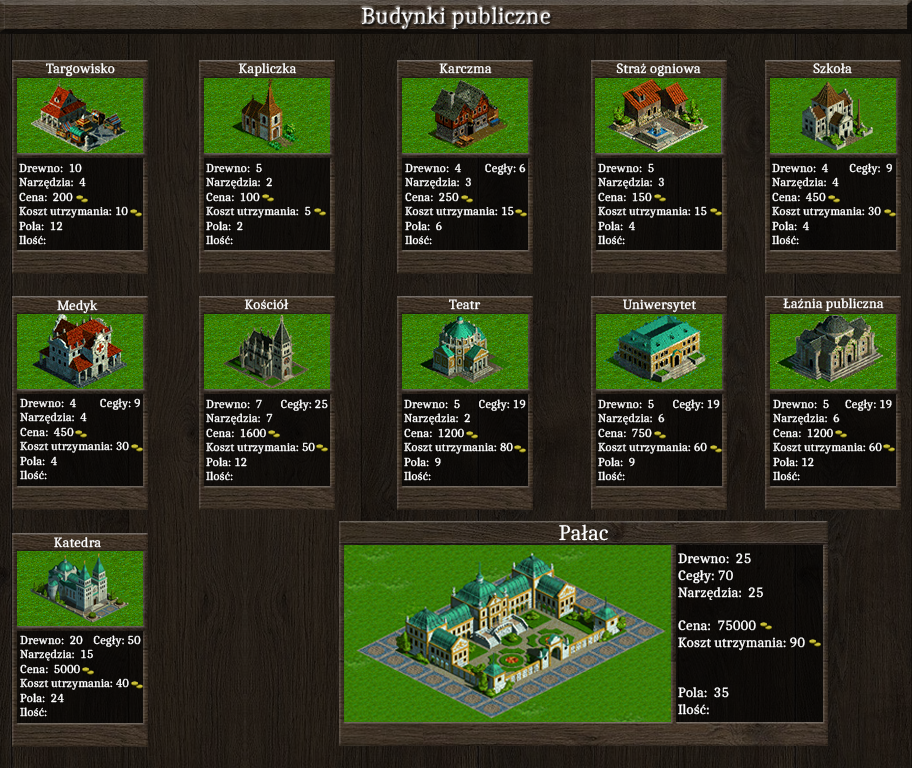
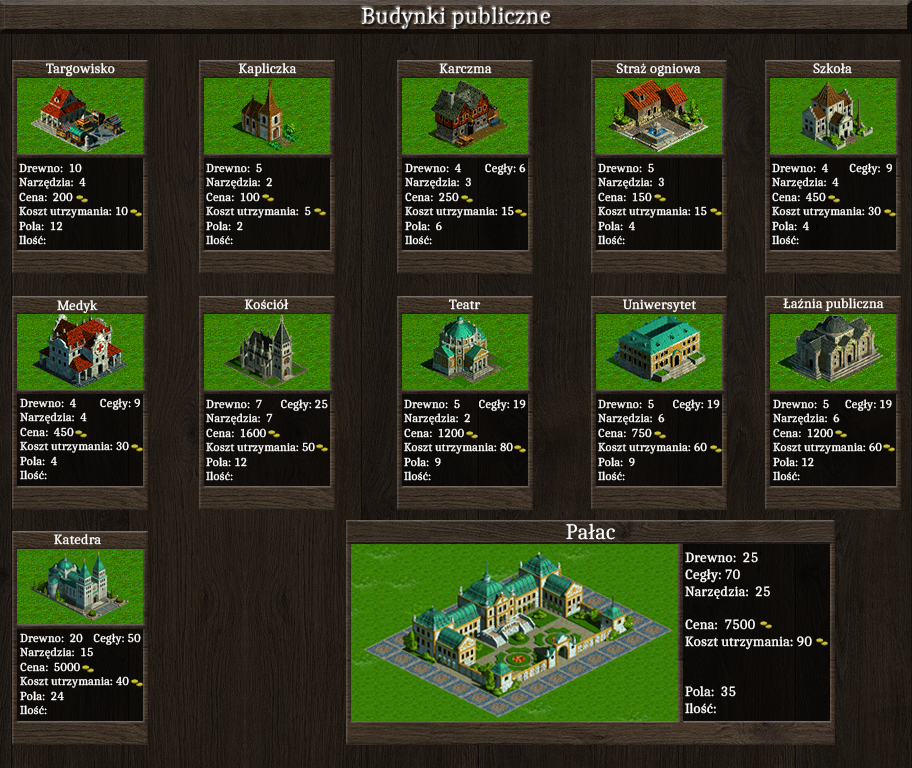
Wyświetlanie ilości budynków publicznych

Changed region(s): [[0.3684, 0.6562, 0.9211, 0.9688], [0.0, 0.6875, 0.1535, 0.9688], [0.8289, 0.6562, 0.8596, 0.6875]]

diff --git a/Kolonia/Final/kolonia.cpp b/Kolonia/Final/kolonia.cpp
@@ -174,7 +174,7 @@ int main(int argc, char* args[])
 			SButton stats_button(VIEW_STATS, MAIN_BUTTON_WIDTH, MAIN_BUTTON_HEIGHT, 5, 732, "stats.png");
 
 			// Przyciski splashy
-			SButton ind_button(PROCESSING, BUILDINGS_BUTTON_WIDTH, BUILDINGS_BUTTON_HEIGHT, 0, 0, "/buildings/ind.png");
+			SButton ind_button(PROCESSING_BUTTON, BUILDINGS_BUTTON_WIDTH, BUILDINGS_BUTTON_HEIGHT, 0, 0, "/buildings/ind.png");
 			SButton prod_button(PRODUCTION, BUILDINGS_BUTTON_WIDTH, BUILDINGS_BUTTON_HEIGHT, 0, 256, "/buildings/prod.png");
 			SButton pub_button(PUBLIC, BUILDINGS_BUTTON_WIDTH, BUILDINGS_BUTTON_HEIGHT, 0, 512, "/buildings/pub.png");
 
@@ -384,7 +384,7 @@ int main(int argc, char* args[])
 			Public_build_AV[5] = new SButton(5, BUILD, BUILD_BUTTON_WIDTH, BUILD_BUTTON_HEIGHT, C_1, W_3, "build_av.png");		// Cathedral
 			Public_build_AV[6] = new SButton(6, BUILD, BUILD_BUTTON_WIDTH, BUILD_BUTTON_HEIGHT, C_2, W_2, "build_av.png");		// Church
 			Public_build_AV[7] = new SButton(7, BUILD, BUILD_BUTTON_WIDTH, BUILD_BUTTON_HEIGHT, C_1, W_1, "build_av.png");		// Marketplace
-			Public_build_AV[8] = new SButton(8, BUILD, BUILD_BUTTON_WIDTH, BUILD_BUTTON_HEIGHT, C_2, W_3, "build_av.png");		// Palace 
+			Public_build_AV[8] = new SButton(8, BUILD, BUILD_BUTTON_WIDTH, BUILD_BUTTON_HEIGHT, C_3 - 53, W_3, "build_av.png");		// Palace 
 			Public_build_AV[9] = new SButton(9, BUILD, BUILD_BUTTON_WIDTH, BUILD_BUTTON_HEIGHT, C_5, W_1, "build_av.png");		// School
 			Public_build_AV[10] = new SButton(10, BUILD, BUILD_BUTTON_WIDTH, BUILD_BUTTON_HEIGHT, C_3, W_2, "build_av.png");	// Theatre
 			Public_build_AV[11] = new SButton(11, BUILD, BUILD_BUTTON_WIDTH, BUILD_BUTTON_HEIGHT, C_3, W_1, "build_av.png");	// Tavern
@@ -399,7 +399,7 @@ int main(int argc, char* args[])
 			Public_build_NAV[5] = new SButton(5, NONE, BUILD_BUTTON_WIDTH, BUILD_BUTTON_HEIGHT, C_1, W_3, "build_nav.png");		// Cathedral
 			Public_build_NAV[6] = new SButton(6, NONE, BUILD_BUTTON_WIDTH, BUILD_BUTTON_HEIGHT, C_2, W_2, "build_nav.png");		// Church
 			Public_build_NAV[7] = new SButton(7, NONE, BUILD_BUTTON_WIDTH, BUILD_BUTTON_HEIGHT, C_1, W_1, "build_nav.png");		// Marketplace
-			Public_build_NAV[8] = new SButton(8, NONE, BUILD_BUTTON_WIDTH, BUILD_BUTTON_HEIGHT, C_2, W_3, "build_nav.png");		// Palace 
+			Public_build_NAV[8] = new SButton(8, NONE, BUILD_BUTTON_WIDTH, BUILD_BUTTON_HEIGHT, C_3 - 53, W_3, "build_nav.png");		// Palace 
 			Public_build_NAV[9] = new SButton(9, NONE, BUILD_BUTTON_WIDTH, BUILD_BUTTON_HEIGHT, C_5, W_1, "build_nav.png");		// School
 			Public_build_NAV[10] = new SButton(10, NONE, BUILD_BUTTON_WIDTH, BUILD_BUTTON_HEIGHT, C_3, W_2, "build_nav.png");	// Theatre
 			Public_build_NAV[11] = new SButton(11, NONE, BUILD_BUTTON_WIDTH, BUILD_BUTTON_HEIGHT, C_3, W_1	, "build_nav.png");	// Tavern
@@ -414,7 +414,7 @@ int main(int argc, char* args[])
 			Public_destroy_AV[5] = new SButton(5, DESTROY, BUILD_BUTTON_WIDTH, BUILD_BUTTON_HEIGHT, C_1 + R_R, W_3, "destroy_av.png");		// Cathedral
 			Public_destroy_AV[6] = new SButton(6, DESTROY, BUILD_BUTTON_WIDTH, BUILD_BUTTON_HEIGHT, C_2 + R_R, W_2, "destroy_av.png");		// Church
 			Public_destroy_AV[7] = new SButton(7, DESTROY, BUILD_BUTTON_WIDTH, BUILD_BUTTON_HEIGHT, C_1 + R_R, W_1, "destroy_av.png");		// Marketplace
-			Public_destroy_AV[8] = new SButton(8, DESTROY, BUILD_BUTTON_WIDTH, BUILD_BUTTON_HEIGHT, C_2 + R_R, W_3, "destroy_av.png");		// Palace 
+			Public_destroy_AV[8] = new SButton(8, DESTROY, BUILD_BUTTON_WIDTH, BUILD_BUTTON_HEIGHT, C_5, W_3, "destroy_av.png");			// Palace 
 			Public_destroy_AV[9] = new SButton(9, DESTROY, BUILD_BUTTON_WIDTH, BUILD_BUTTON_HEIGHT, C_5 + R_R, W_1, "destroy_av.png");		// School
 			Public_destroy_AV[10] = new SButton(10, DESTROY, BUILD_BUTTON_WIDTH, BUILD_BUTTON_HEIGHT, C_3 + R_R, W_2, "destroy_av.png");	// Theatre
 			Public_destroy_AV[11] = new SButton(11, DESTROY, BUILD_BUTTON_WIDTH, BUILD_BUTTON_HEIGHT, C_3 + R_R, W_1, "destroy_av.png");	// Tavern
@@ -429,7 +429,7 @@ int main(int argc, char* args[])
 			Public_destroy_NAV[5] = new SButton(5, NONE, BUILD_BUTTON_WIDTH, BUILD_BUTTON_HEIGHT, C_1 + R_R, W_3, "destroy_nav.png");		// Cathedral
 			Public_destroy_NAV[6] = new SButton(6, NONE, BUILD_BUTTON_WIDTH, BUILD_BUTTON_HEIGHT, C_2 + R_R, W_2, "destroy_nav.png");		// Church
 			Public_destroy_NAV[7] = new SButton(7, NONE, BUILD_BUTTON_WIDTH, BUILD_BUTTON_HEIGHT, C_1 + R_R, W_1, "destroy_nav.png");		// Marketplace
-			Public_destroy_NAV[8] = new SButton(8, NONE, BUILD_BUTTON_WIDTH, BUILD_BUTTON_HEIGHT, C_2 + R_R, W_3, "destroy_nav.png");		// Palace 
+			Public_destroy_NAV[8] = new SButton(8, NONE, BUILD_BUTTON_WIDTH, BUILD_BUTTON_HEIGHT, C_5, W_3, "destroy_nav.png");				// Palace 
 			Public_destroy_NAV[9] = new SButton(9, NONE, BUILD_BUTTON_WIDTH, BUILD_BUTTON_HEIGHT, C_5 + R_R, W_1, "destroy_nav.png");		// School
 			Public_destroy_NAV[10] = new SButton(10, NONE, BUILD_BUTTON_WIDTH, BUILD_BUTTON_HEIGHT, C_3 + R_R, W_2, "destroy_nav.png");		// Theatre
 			Public_destroy_NAV[11] = new SButton(11, NONE, BUILD_BUTTON_WIDTH, BUILD_BUTTON_HEIGHT, C_3 + R_R, W_1, "destroy_nav.png");		// Tavern
@@ -927,9 +927,33 @@ int main(int argc, char* args[])
 							}
 							*/
 						}
-
+						// Wyswietlanie ilosci budynkow
+						gTextTexture.loadFromRenderedText(_itoa(tPublic[7]->getNumber(), People_char_buffor, 10), textC, gFont);
+						gTextTexture.render(T_C_1, T_W_1);
 						gTextTexture.loadFromRenderedText(_itoa(tPublic[4]->getNumber(), People_char_buffor, 10), textC, gFont);
-						gTextTexture.render(400 - gTextTexture.getWidth(), 62); 
+						gTextTexture.render(T_C_2, T_W_1); 
+						gTextTexture.loadFromRenderedText(_itoa(tPublic[11]->getNumber(), People_char_buffor, 10), textC, gFont);
+						gTextTexture.render(T_C_3, T_W_1);
+						gTextTexture.loadFromRenderedText(_itoa(tPublic[2]->getNumber(), People_char_buffor, 10), textC, gFont);
+						gTextTexture.render(T_C_4, T_W_1);
+						gTextTexture.loadFromRenderedText(_itoa(tPublic[9]->getNumber(), People_char_buffor, 10), textC, gFont);
+						gTextTexture.render(T_C_5, T_W_1);
+
+						gTextTexture.loadFromRenderedText(_itoa(tPublic[0]->getNumber(), People_char_buffor, 10), textC, gFont);
+						gTextTexture.render(T_C_1, T_W_2);
+						gTextTexture.loadFromRenderedText(_itoa(tPublic[6]->getNumber(), People_char_buffor, 10), textC, gFont);
+						gTextTexture.render(T_C_2, T_W_2);
+						gTextTexture.loadFromRenderedText(_itoa(tPublic[10]->getNumber(), People_char_buffor, 10), textC, gFont);
+						gTextTexture.render(T_C_3, T_W_2);
+						gTextTexture.loadFromRenderedText(_itoa(tPublic[3]->getNumber(), People_char_buffor, 10), textC, gFont);
+						gTextTexture.render(T_C_4, T_W_2);
+						gTextTexture.loadFromRenderedText(_itoa(tPublic[1]->getNumber(), People_char_buffor, 10), textC, gFont);
+						gTextTexture.render(T_C_5, T_W_2);
+
+						gTextTexture.loadFromRenderedText(_itoa(tPublic[5]->getNumber(), People_char_buffor, 10), textC, gFont);
+						gTextTexture.render(T_C_1, T_W_3);
+						gTextTexture.loadFromRenderedText(_itoa(tPublic[8]->getNumber(), People_char_buffor, 10), textC, gFont);
+						gTextTexture.render(T_C_4 + 85, T_W_3);
 						break;
 						// Ekran rozgrywki - przetworstwo
 					case PROC:

diff --git a/Kolonia/Final/sdl_consts.h b/Kolonia/Final/sdl_consts.h
@@ -41,6 +41,10 @@ const int C_1 = 17,  C_2 = 204, C_3 = 402, C_4 = 596, C_5 = 770;
 const int W_1 = 252, W_2 = 488, W_3 = 723;
 const int R_R = 66;
 
+// Wspolrzedne wyswiwetlania tekstu ilosci
+const int T_C_1 = 60, T_C_2 = 246, T_C_3 = 442, T_C_4 = 635, T_C_5 = 810;
+const int T_W_1 = 229, T_W_2 = 465, T_W_3 = 699;
+
 // Wspolrzedne ulepszenia
 const int U_X = 171, U_Y = 595;
 

diff --git a/Kolonia/Final/SButton.cpp b/Kolonia/Final/SButton.cpp
@@ -238,7 +238,7 @@ void SButton::operation(Actions action)
 		subScreen = PUB;
 		break;
 
-	case PROCESSING:
+	case PROCESSING_BUTTON:
 		SDL_DestroyTexture(gTexture2);
 		gTexture2 = NULL;
 		gTexture2 = loadTexture("imgs/production.png");

diff --git a/Kolonia/Final/sdl_enums.h b/Kolonia/Final/sdl_enums.h
@@ -31,7 +31,7 @@ enum Actions
 	SELL,
 	SELL_RESOURCE,
 	PUBLIC,
-	PROCESSING,
+	PROCESSING_BUTTON,
 	PRODUCTION,
 	VIEW_STATS,
 	BUILD,
